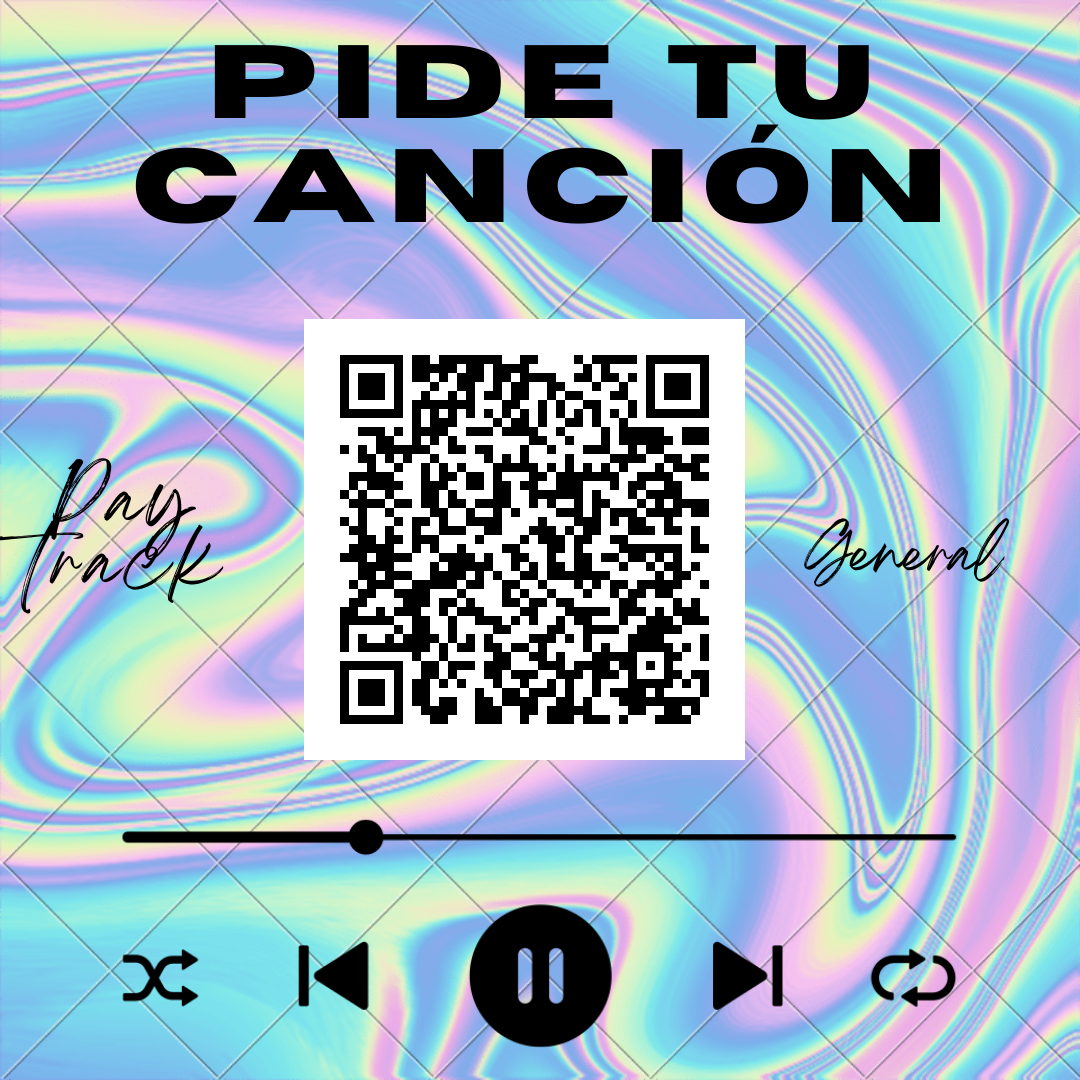
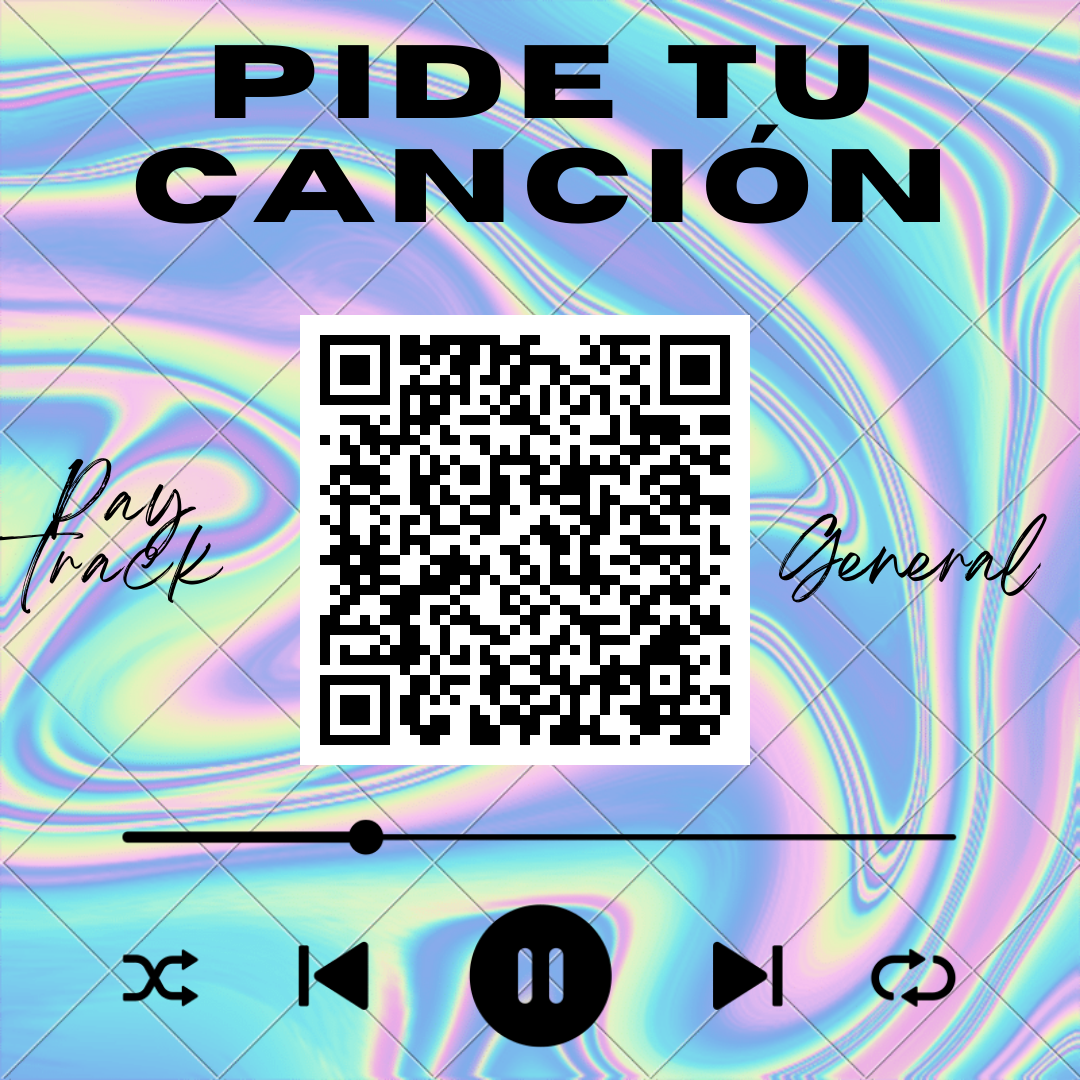
.

Changed region(s): [[0.275, 0.275, 0.9778, 0.7333]]

diff --git a/script.py b/script.py
@@ -11,8 +11,8 @@ def generate_qr_with_logo_and_text(link, background_path, title, output_path):
     qr = qrcode.QRCode(
         version=1,
         error_correction=qrcode.constants.ERROR_CORRECT_H,
-        box_size=9,
-        border=4,
+        box_size=10,
+        border=2,
     )
     qr.add_data(link)
     qr.make(fit=True)
@@ -29,7 +29,7 @@ def generate_qr_with_logo_and_text(link, background_path, title, output_path):
     # 3. Cargar la fuente y medir el tamaño del texto
     font_path = "BreathingRegular.ttf"
     try:
-        font = ImageFont.truetype(font=font_path, size=50)
+        font = ImageFont.truetype(font=font_path, size=65)
     except IOError:
         print(f"Advertencia: No se pudo cargar la fuente '{font_path}'. Usando la fuente predeterminada.")
         font = ImageFont.load_default()
@@ -42,7 +42,7 @@ def generate_qr_with_logo_and_text(link, background_path, title, output_path):
     qr_width, qr_height = qr_img.size
     bg_width, bg_height = final_img.size
     
-    spacing = 60
+    spacing = 30
 
     total_content_width = qr_width + spacing + text_width
     
@@ -52,7 +52,7 @@ def generate_qr_with_logo_and_text(link, background_path, title, output_path):
     # --- ✨ LÍNEA NUEVA PARA EL AJUSTE MANUAL ✨ ---
     # Restamos un valor para mover todo el bloque hacia la izquierda.
     # ¡Puedes cambiar este número hasta que quede perfecto!
-    manual_offset = -180
+    manual_offset = -190
     start_x = start_x_calculado - manual_offset
     
     # Coordenadas para el QR (centrado verticalmente)
